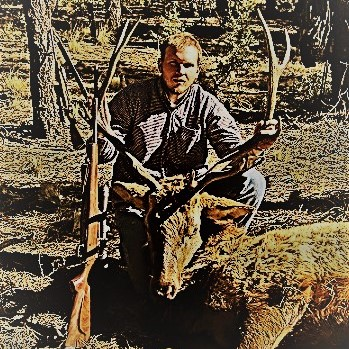
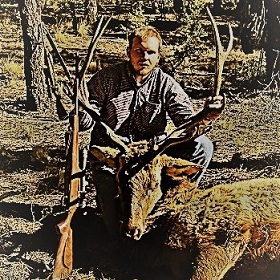
not that great

diff --git a/web/homepage.css b/web/homepage.css
@@ -1,20 +1,24 @@
 .opac {
-	 background: rgba(0, 0, 0, 0.8);
+	 background: rgba(0, 0, 0, 0.9);
 }
 
 h1 { 
 	color:white;
 }
-.grey {
-	color:#a6a6a6;
+.mainColor {
+	color:#b3b3b3;
 }
 
 .orange{
 	color:#e67300;
 }
 
+.hobbyExplain {
+	font-size: 170%;
+}
+
 .hobbiesText {
-	color: #e67300;
+	color: #ff9933;
 }
 .smallJumbo {
 	
@@ -24,7 +28,15 @@ h1 {
 .center {
 	align-content: center;
 }
-
-body {
+.section {
+	height: 300px;
+}
+.body {
 	background-image: url("motherboard-wallpaper-2400x1350.jpg");
+}
+.title {
+	background-image: url("motherboard-wallpaper-2400x1350.jpg");
+}
+body {
+	background-image: url("circuit-board-wallpaper-8.jpg");
 }

diff --git a/web/preston-homepage.php b/web/preston-homepage.php
@@ -13,50 +13,62 @@
 	<title>About Us</title>
 </head>
 <body>
+	<div class="container-fluid ">
+		<?php
+			require("home-nav.php");
+		?>
 
-	<?php
-		require("home-nav.php");
-	?>
+		
+		<div class="jumbotron mainColor opac">
+			<h1>Preston Taylor</h1>
+			<p>"It's our wits that make us men."</p>
+			<p>-Malcom Wallace-</p>
+		</div>
 
-	<div class="container-fluid">
-	<div class="jumbotron grey opac">
-		<h1>Preston Taylor</h1>
-		<p>"It's our wits that make us men."</p>
-		<p>-Malcom Wallace-</p>
 	</div>
 
-	</div>
 
 	<div class="container-fluid ">
-		<div>
+		
+
 		<div class="row">
 			<div class="col-sm-4 center">
-				<div class="jumbotron opac smallJumbo">
+				<div class="jumbotron opac smallJumbo ">
 					<h2 class="hobbiesText ">Computers</h2>
 				</div>
-				
+			</div>	
+		</div>		
+
+		<div class="row section ">
+			<div class="col-sm-4">
 				<img src="heatSink.jpg" class="img-rounded">
 			</div>
+		
 
+			<div class="section col-sm-6 hobbyExplain hobbiesText">
+				<p>Building desktop computers is a favorite past time of mine. I visit Deseret Industries most weeks to find old computer parts that I can use to upgrade a system or just build a new one.</p>
+			</div>
+		</div>
+
+		<div class="row">
 			<div class="col-sm-4 center">
 				<div class="jumbotron opac smallJumbo">
 					<h2 class="hobbiesText" >Hunting</h2>
 				</div>
+				
+			</div>
+		</div>
+
+		<div class="row section ">
+			<div class="col-sm-4">
 				<img src="Hunting.jpg" class="img-rounded">
 			</div>
-
-			<div class="col-sm-4 center">
-				<div class="jumbotron opac smallJumbo">
-					<h2 class="hobbiesText">Family</h2>
-				</div>
-				<img src="">
+			<div class="section col-sm-6 hobbyExplain hobbiesText">
+				<p>Since I can remember I have spent time with my dad and brother out in the woods hunting and fishing. We mostly hunt in the White Mountains of Arizona. Two years ago I harvested an elk there</p>
 			</div>
-		</div>
-		</div>
+		</div>		
+		
 	</div>
-
-
-
 		
 </body>
 </html>

diff --git a/web/project-index.php b/web/project-index.php
@@ -19,8 +19,8 @@
 	?>
 
 	<div class="container-fluid">
-	<div class="jumbotron grey opac" >
-		<h1 class="grey">Projets Coming Soon</h1>
+	<div class="jumbotron mainColor opac" >
+		<h1 class="mainColor">Projets Coming Soon</h1>
 	</div>
 
 	</div>
